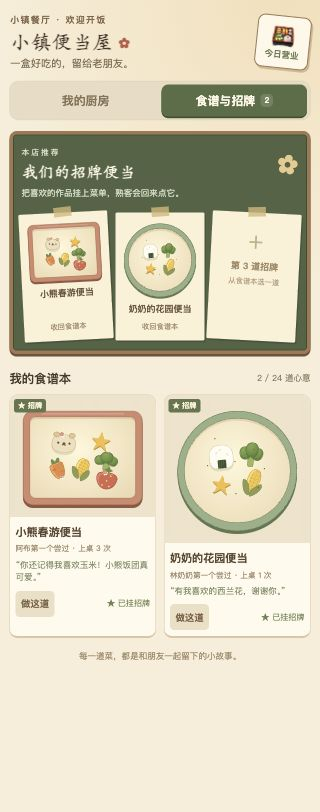
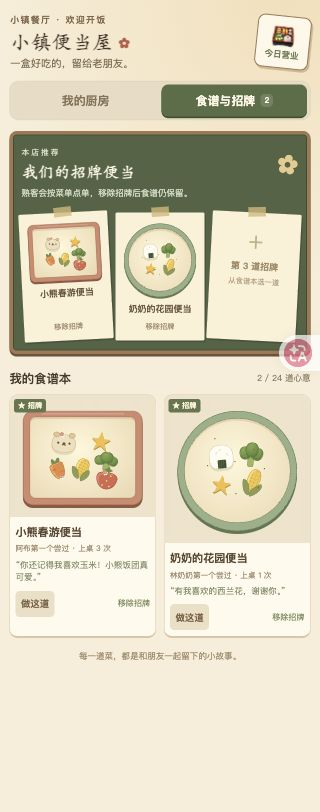
完善餐厅功能。

diff --git a/miniapp/kitchen/utils/restaurant-page.js b/miniapp/kitchen/utils/restaurant-page.js
@@ -17,7 +17,7 @@ function createRestaurantPage(api, wxApi, showError = () => {}, showSuccess = ()
       dish: bento.freshDish(), ingredientOptions: bento.clone(bento.ingredients), boxShapes: bento.clone(bento.boxShapes), boxColors: bento.clone(bento.boxColors), decorations: bento.clone(bento.decorations),
       selectedIngredient: '', selectedPortionIndex: -1, selectedPortion: null, residents: [], selectedResident: null,
       recipes: [], signatureSlots: [1, 2, 3].map(slot => ({ slot, id: '', recipe: null })),
-      nameSuggestions: bento.suggestions(bento.freshDish()), serviceResult: null, editingRecipeID: '', replacingRecipe: null,
+      nameSuggestions: bento.suggestions(bento.freshDish()), serviceResult: null, editingRecipeID: '', replacingRecipe: null, selectingSignature: false,
       dragging: false, dragIcon: '', dragX: 0, dragY: 0
     },
     onLoad() {
@@ -35,7 +35,7 @@ function createRestaurantPage(api, wxApi, showError = () => {}, showSuccess = ()
         this._identity = identity(); this._selectedResidentID = ''
         this._identityEpoch = (this._identityEpoch || 0) + 1
         this._loadPromise = null
-        this.setData({ loading: true, busy: false, dish: bento.freshDish(), pending: null, editingRecipeID: '', state: null, serviceResult: null, recipes: [], residents: [], signatureSlots: [1, 2, 3].map(slot => ({ slot, id: '', recipe: null })), selectedResident: null, selectedPortionIndex: -1, selectedPortion: null, selectedIngredient: '', ingredientOptions: bento.clone(bento.ingredients), replacingRecipe: null })
+        this.setData({ loading: true, busy: false, dish: bento.freshDish(), pending: null, editingRecipeID: '', state: null, serviceResult: null, recipes: [], residents: [], signatureSlots: [1, 2, 3].map(slot => ({ slot, id: '', recipe: null })), selectedResident: null, selectedPortionIndex: -1, selectedPortion: null, selectedIngredient: '', ingredientOptions: bento.clone(bento.ingredients), replacingRecipe: null, selectingSignature: false })
         this.restoreDraft()
       }
       return this.loadRestaurant()
@@ -100,7 +100,7 @@ function createRestaurantPage(api, wxApi, showError = () => {}, showSuccess = ()
     explain(message) { if (this.current()) { this.setData({ error: message }); showError(message) } },
     onTabChange(event) {
       const tab = eventID(event).tab
-      if (['kitchen', 'menu'].includes(tab) && !this.data.busy) { this.stopDrag(); this.setData({ tab }); this._boardRect = null }
+      if (['kitchen', 'menu'].includes(tab) && !this.data.busy) { this.stopDrag(); this.setData({ tab, selectingSignature: false }); this._boardRect = null }
     },
     onResidentSelect(event) {
       if (!this.canEdit()) return
@@ -233,14 +233,31 @@ function createRestaurantPage(api, wxApi, showError = () => {}, showSuccess = ()
       this.setDish(dish)
       return this.mutate({ kind: 'serve', method: 'post', path: '/restaurant/serve', body: { request_id: supplyRequestID(), resident_id: resident.id, order_id: resident.order.id, recipe_id: recipeID, dish } })
     },
+    onOpenSignaturePicker() {
+      if (this.canEdit() && !this._loadPromise) this.setData({ selectingSignature: true, error: '' })
+    },
+    onCloseSignaturePicker() { this.setData({ selectingSignature: false }) },
+    onChooseSignature(event) {
+      if (!this.canEdit() || this._loadPromise || !this.data.selectingSignature) return
+      const id = eventID(event).id
+      if (!this.data.recipes.some(recipe => recipe.id === id) || (this.data.state.signature_ids || []).includes(id)) return
+      this.setData({ selectingSignature: false })
+      return this.onToggleSignature(event)
+    },
     onToggleSignature(event) {
       if (!this.canEdit() || this._loadPromise) return
       const recipe = this.data.recipes.find(item => item.id === eventID(event).id)
       if (!recipe) return
       const ids = this.data.state.signature_ids || []
-      if (ids.includes(recipe.id)) return this.saveSignatures(ids.filter(id => id !== recipe.id))
+      if (ids.includes(recipe.id)) return this.onRemoveSignature(event)
       if (ids.length < 3) return this.saveSignatures(ids.concat(recipe.id))
       this.setData({ replacingRecipe: recipe })
+    },
+    onRemoveSignature(event) {
+      if (!this.canEdit() || this._loadPromise) return
+      const id = eventID(event).id, ids = this.data.state.signature_ids || []
+      if (!ids.includes(id)) return
+      return this.saveSignatures(ids.filter(value => value !== id), '已移除招牌，食谱仍保留')
     },
     onReplaceSignature(event) {
       if (!this.canEdit() || !this.data.replacingRecipe) return
@@ -249,7 +266,7 @@ function createRestaurantPage(api, wxApi, showError = () => {}, showSuccess = ()
       return this.saveSignatures(ids.map(value => value === id ? this.data.replacingRecipe.id : value))
     },
     onCancelReplace() { if (!this.data.busy) this.setData({ replacingRecipe: null }) },
-    saveSignatures(ids) { return this.mutate({ kind: 'signatures', method: 'put', path: '/restaurant/signatures', body: { request_id: supplyRequestID(), recipe_ids: ids } }) },
+    saveSignatures(ids, successMessage) { return this.mutate({ kind: 'signatures', method: 'put', path: '/restaurant/signatures', successMessage: successMessage || '招牌菜单更新好了', body: { request_id: supplyRequestID(), recipe_ids: ids } }) },
     onDismissResult() { this.setData({ serviceResult: null }) },
     onOpenRecipeBook() { if (!this.data.busy) this.setData({ serviceResult: null, tab: 'menu' }) },
     async mutate(operation) {
@@ -311,7 +328,7 @@ function createRestaurantPage(api, wxApi, showError = () => {}, showSuccess = ()
       }
       this.setData(extra)
       this.persistDraft()
-      if (this._visible !== false && operation.kind !== 'serve') showSuccess(operation.kind === 'save' ? '食谱记好啦，去菜单里设为招牌菜吧' : '招牌菜单更新好了')
+      if (this._visible !== false && operation.kind !== 'serve') showSuccess(operation.kind === 'save' ? '食谱记好啦，去菜单里设为招牌菜吧' : operation.successMessage || '招牌菜单更新好了')
     },
     onRetryPending() { const pending = this.data.pending; if (pending && !this.data.busy) return this.mutate(pending) },
     onBack() { if (!this.data.busy) wxApi.navigateBack({ fail: () => wxApi.switchTab({ url: '/pages/index/index' }) }) }

diff --git a/docs/town-life.md b/docs/town-life.md
@@ -63,7 +63,7 @@
 
 阿布喜欢玉米、桃桃喜欢草莓、林奶奶喜欢西兰花。点居民查看当天愿望、来访次数、上次吃过的菜和评价；任何有效便当都可以完成愿望单或惊喜单，喜欢的食材和实际使用的造型会得到具体回应。每位居民的订单按招待次数在愿望、招牌（已有菜单时）和惊喜之间变化；没有时间倒计时、离线积压或等待惩罚。
 
-出餐后的回忆卡展示实际成品和评价，可直接保存食谱，再前往「食谱与招牌」发布。食谱本最多 24 道，招牌最多 3 道；满位时明确选择替换哪一道，原菜仍在食谱本里。加载食谱后可保存修改或另存一道。居民点招牌时可直接取出配方；服务端核对盒型、配色、装饰、食材位置和造型，允许菜名变化。更新菜单或配方会刷新相关订单，旧订单会要求重新选择。
+出餐后的回忆卡展示实际成品和评价，可直接保存食谱，再前往「食谱与招牌」发布。点击招牌板空位的「设置招牌菜」，从弹出的食谱列表直接选择；还没有食谱时引导回厨房制作。食谱本最多 24 道，招牌最多 3 道；满位时明确选择替换哪一道，原菜仍在食谱本里。招牌板和食谱卡片都提供明显的「移除招牌菜」按钮，可以逐道移除直至清空菜单，食谱和品尝历史仍保留。加载食谱后可保存修改或另存一道。居民点招牌时可直接取出配方；服务端核对盒型、配色、装饰、食材位置和造型，允许菜名变化。更新菜单或配方会刷新相关订单，旧订单会要求重新选择。
 
 每道食谱保留首位品尝者、上桌次数和最近评价；先招待再保存的新菜或修改版，会关联最近 12 条中尚未归属食谱的匹配品尝记录。配方、菜单、来访次数和记忆保存在后端。当前未完成便当及待确认请求在本机按后端与账号分开保存，重新进店可以继续；保存和出餐需要联网。
 
